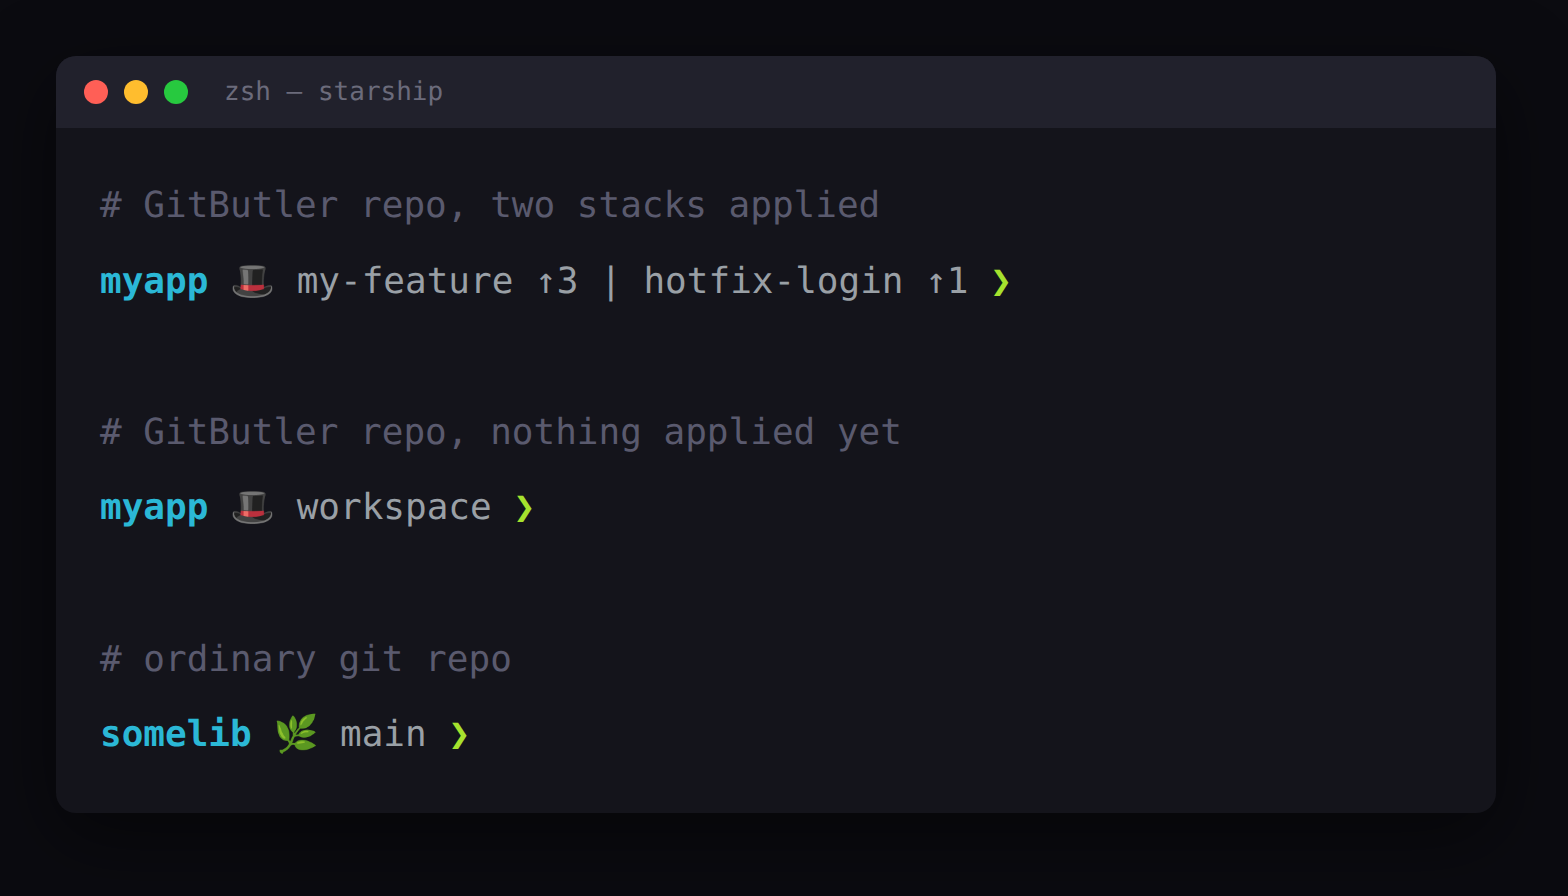
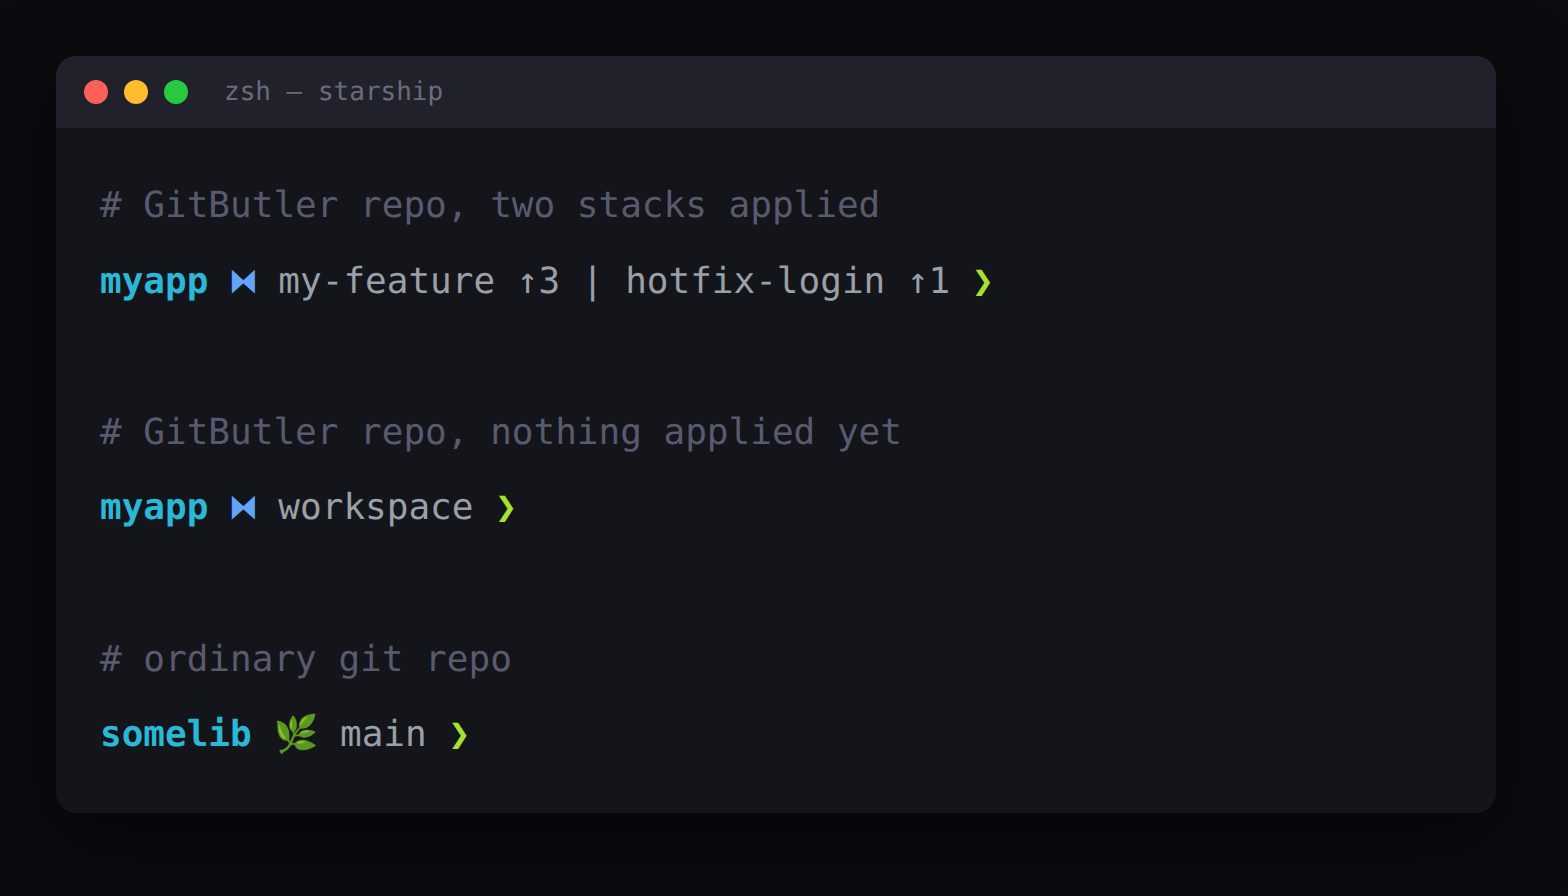
Switch symbol to a theme-coloured bowtie (⧓)
Replace the top hat with ⧓ (U+29D3, black bowtie), matching GitButler's
mark. The script now colours the symbol itself (light blue on a dark
terminal, dark blue on a light one), detecting the terminal background
via OSC 11 once per tty and caching it; GITBUTLER_PROMPT_MODE overrides.
Branch text stays grey, so starship's static $style is dropped from the
custom module (format = "$output ").

Changed region(s): [[0.125, 0.2812, 0.6562, 0.3438], [0.125, 0.5312, 0.3438, 0.5938]]

diff --git a/README.md b/README.md
@@ -4,9 +4,11 @@ A [starship](https://starship.rs) prompt segment that knows about [GitButler](ht
 
 Why: turn a repo into a GitButler project and you get parked on a `gitbutler/workspace` branch, so starship's built-in `git_branch` just prints `gitbutler/workspace`, which is a bit crap. This reads the real picture out of the `but` cli instead.
 
-![starship prompt in a GitButler repo with two stacks applied (🎩 my-feature ↑3 | hotfix-login ↑1), a butler repo with nothing applied (🎩 workspace), and an ordinary git repo (🌿 main)](images/prompt.png)
+![starship prompt in a GitButler repo with two stacks applied (⧓ my-feature ↑3 | hotfix-login ↑1), a butler repo with nothing applied (⧓ workspace), and an ordinary git repo (🌿 main)](images/prompt.png)
 
-🎩 is the butler segment, 🌿 is plain git. Both sit at the top of the script if you want to change them.
+⧓ is the butler segment, 🌿 is plain git.
+
+The ⧓ is blue: light blue on a dark background, dark blue on a light one. It works that out once per session by asking the terminal for its background colour (OSC 11), then caches it. No answer means it assumes dark; force it with `GITBUTLER_PROMPT_MODE=light` or `dark`. Symbols and colours live at the top of the script.
 
 ## How it works
 
@@ -14,7 +16,7 @@ starship is one compiled binary with no plugin system, so this isn't a fork of t
 
 The script decides what to show:
 
-- butler repo (there's a `.git/gitbutler` dir): read the applied stacks from `but status --format json`, render `🎩 name ↑N` per branch, joined with ` | `.
+- butler repo (there's a `.git/gitbutler` dir): read the applied stacks from `but status --format json`, render `⧓ name ↑N` per branch, joined with ` | `.
 - ordinary repo: fall back to `git branch`, e.g. `🌿 main` (short sha when detached).
 - not a repo: print nothing, so the segment disappears.
 
@@ -26,7 +28,7 @@ It always exits 0 and never prints a half-formed segment, so a broken `but`, dod
 
 While REFRESH is unchanged you get the cached string back for nothing; when it moves, the script recomputes. Cache lives under `${XDG_CACHE_HOME:-~/.cache}/starship-gitbutler`, keyed on the absolute path to the gitbutler dir, so moving between subdirectories of a repo still hits the same entry.
 
-There's a 2s timeout around `but` too (override with `BUT_TIMEOUT`). If `but` ever hangs you get a quick `🎩 workspace` rather than a stalled prompt.
+There's a 2s timeout around `but` too (override with `BUT_TIMEOUT`). If `but` ever hangs you get a quick `⧓ workspace` rather than a stalled prompt.
 
 ## Requirements
 
@@ -54,8 +56,7 @@ Then in `~/.config/starship.toml`: replace `$git_branch` in your `format` with `
 command = "~/.config/starship/gitbutler-branch.sh"
 when = true
 shell = ["bash", "--noprofile", "--norc"]
-format = "[$output]($style) "
-style = "grey"
+format = "$output "
 disabled = false
 ```
 